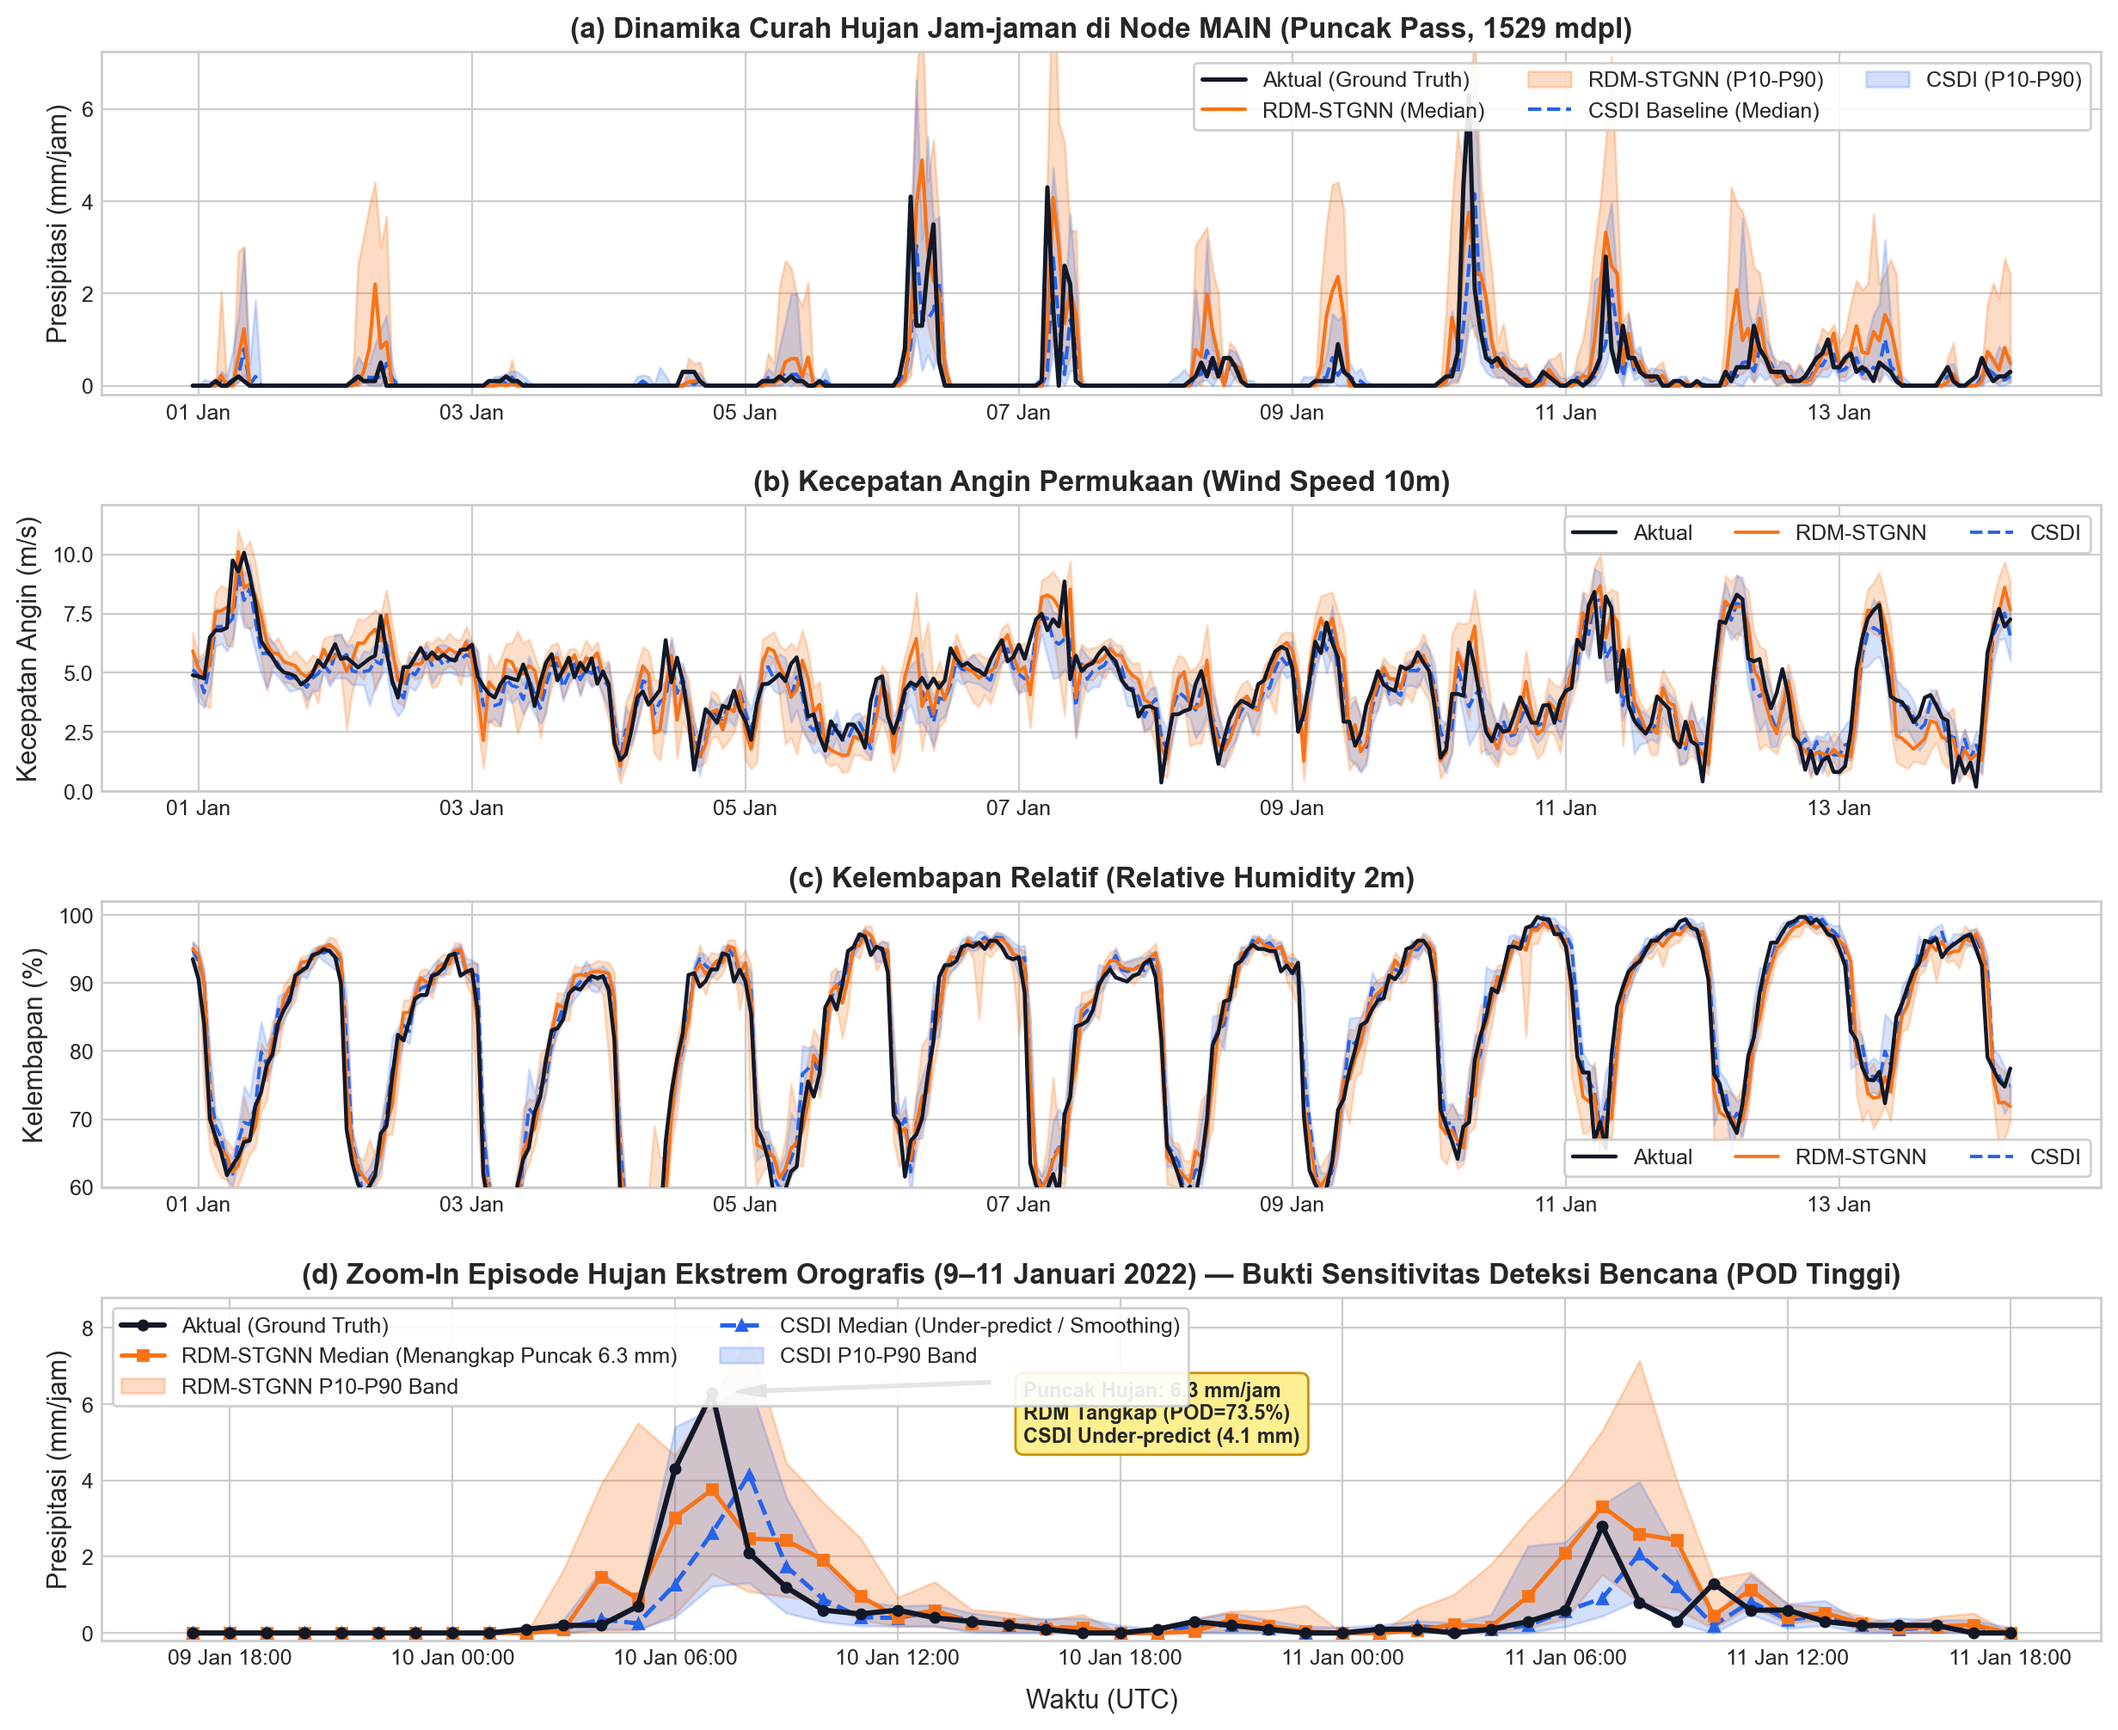
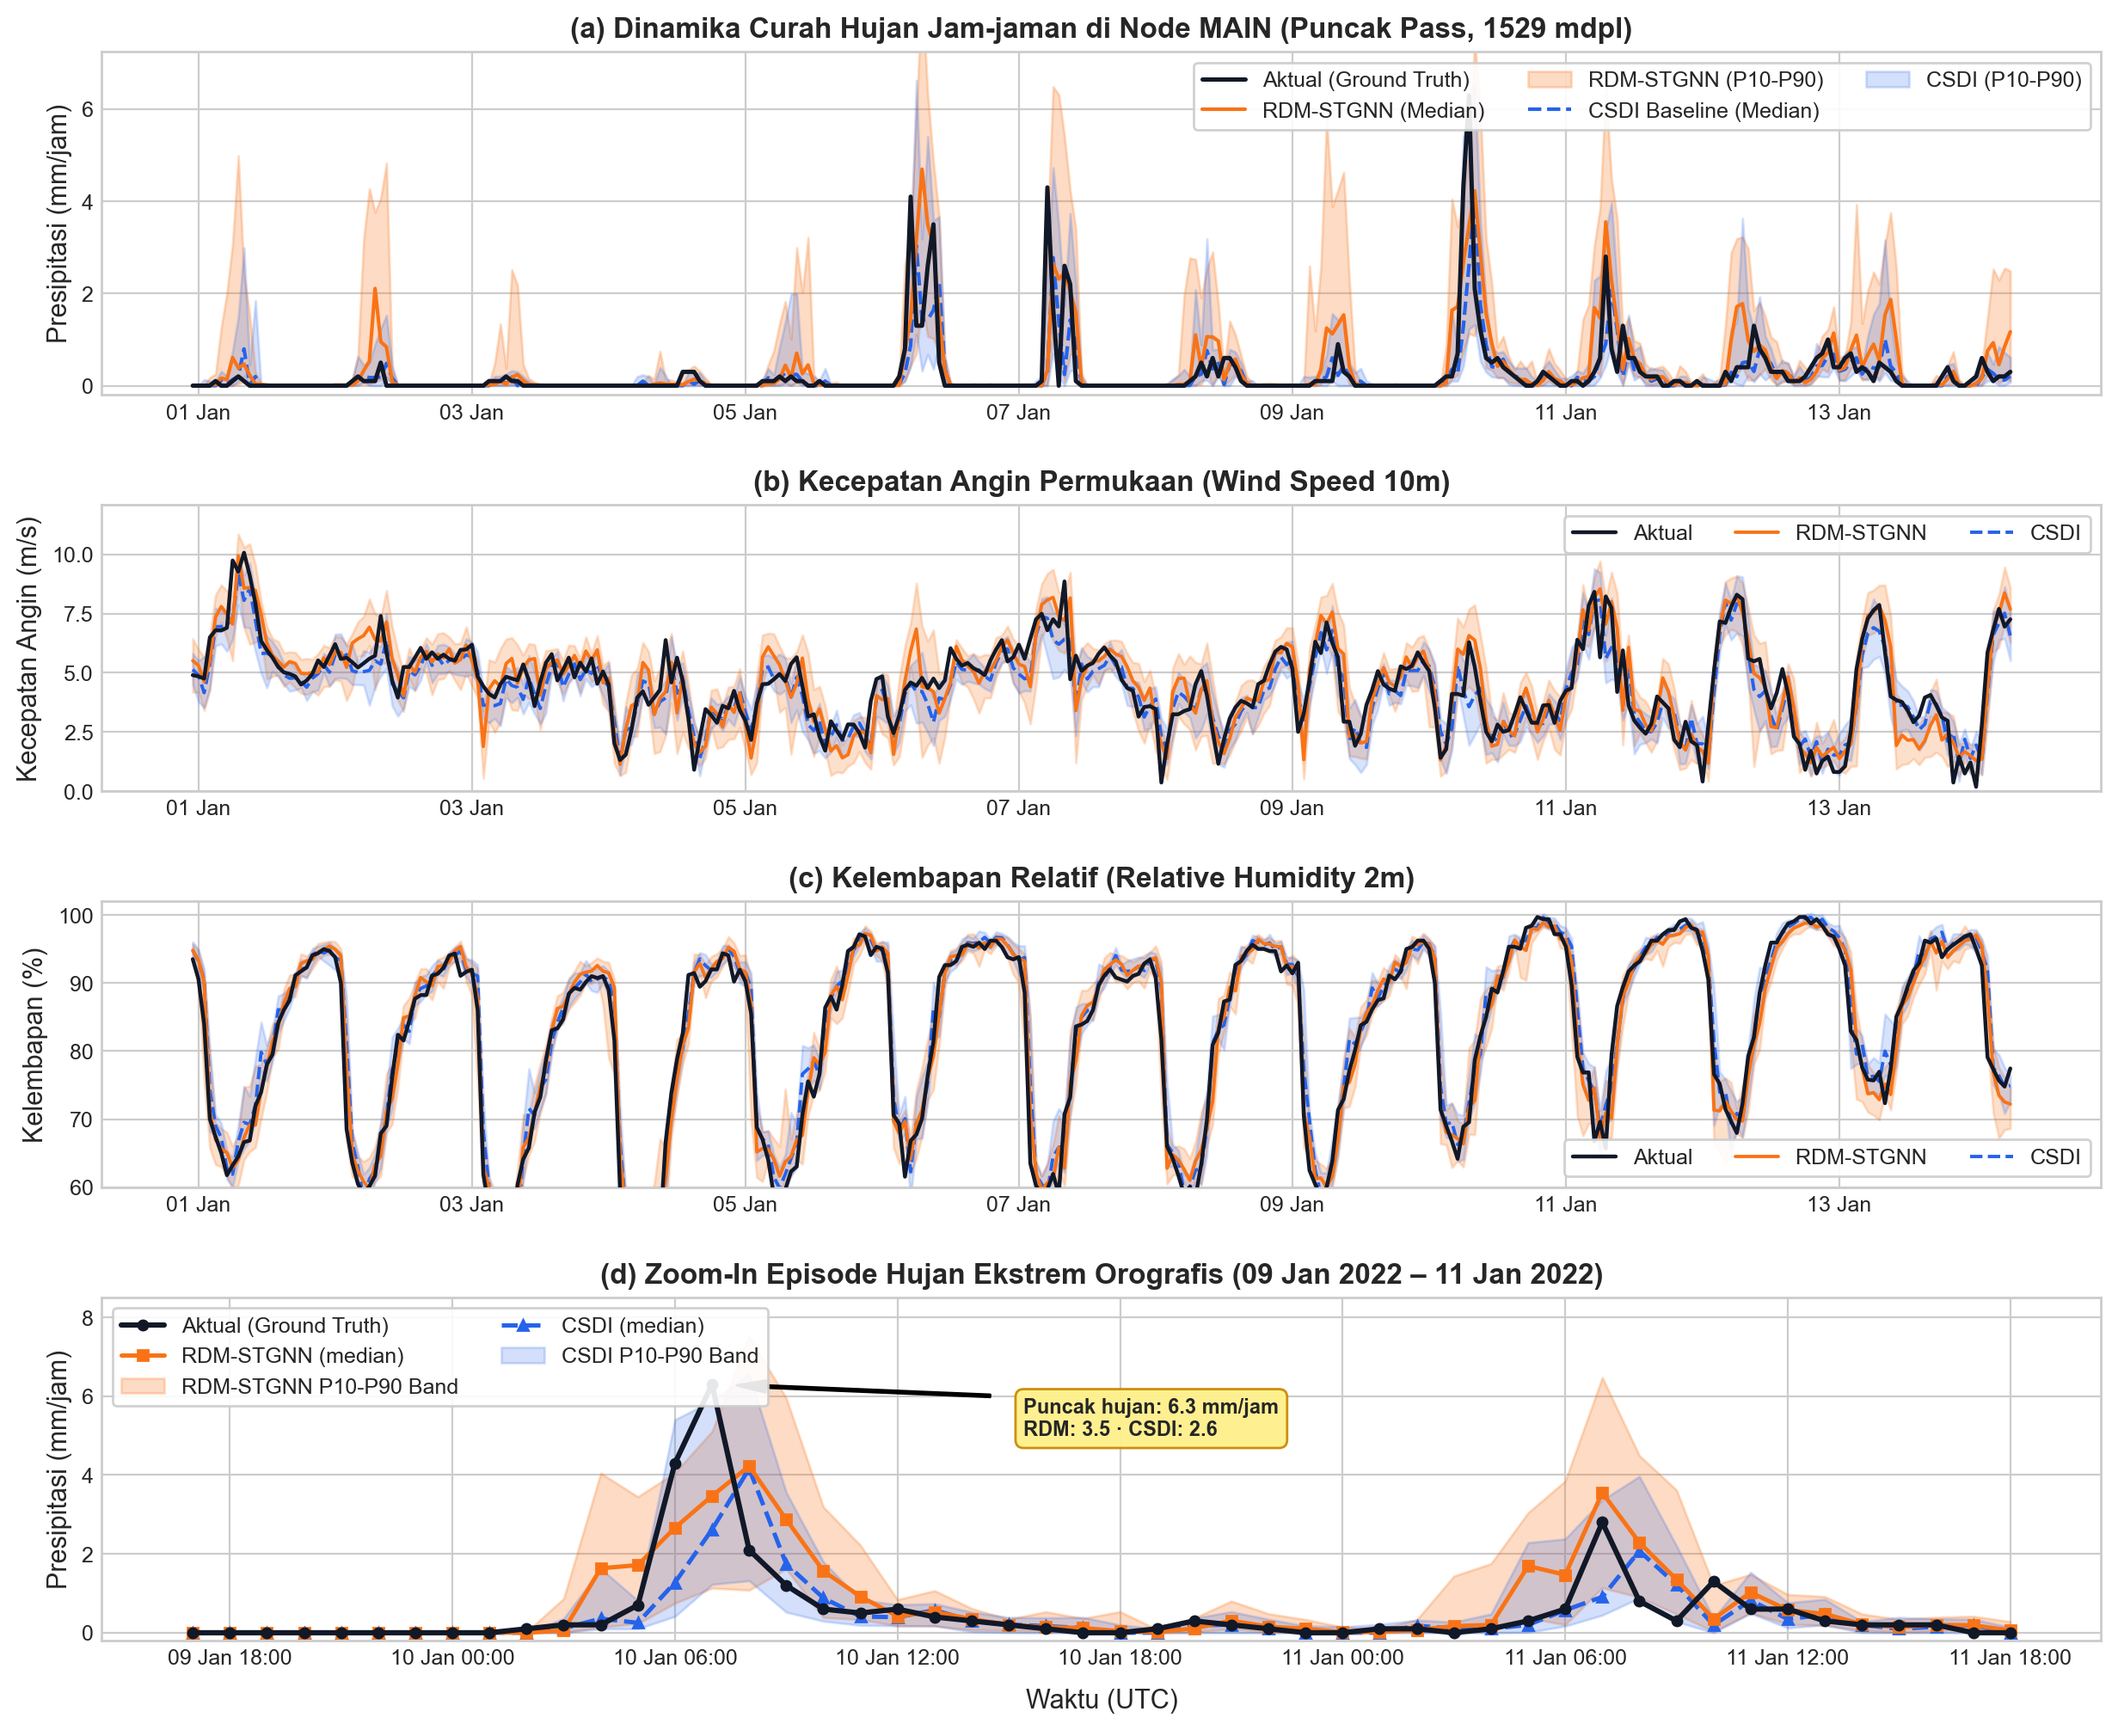
docs: kecepatan training/evaluasi terukur + grafik time-series CSDI vs RDM-STGNN

diff --git a/core/scripts/plot_timeseries_full.py b/core/scripts/plot_timeseries_full.py
@@ -1,0 +1,93 @@
+#!/usr/bin/env python3
+"""Time-series evaluation over the FULL test split (35.058 jam): CSDI vs RDM-STGNN.
+
+Rows: (a) presipitasi jam-jaman + rata-rata bergerak 7 hari,
+      (b) bias rata-rata bergerak 7 hari (median model - aktual).
+Run from core/: PYTHONPATH=. python scripts/plot_timeseries_full.py
+"""
+import glob
+import os
+
+import numpy as np
+import pandas as pd
+import matplotlib.pyplot as plt
+import matplotlib.dates as mdates
+
+from scripts.run_eval_final import load_test_data, run_diffusion_scenario
+
+DATA = "data/raw/pangrango_era5_5node_2005_2025.parquet"
+CKPT = "results/tabel_3_17/sken_3_default_kontrol/model.pth"
+ROLL = 24 * 7
+
+
+def rolling_mean(a):
+    return pd.Series(a).rolling(ROLL, min_periods=ROLL // 7, center=True).mean().to_numpy()
+
+
+def main():
+    shards = sorted(glob.glob("csdi_baseline/eval_shards/*.npz"))
+    csdi_obs = np.concatenate([np.load(s)["precipitation__obs"] for s in shards])
+    csdi_med = np.median(
+        np.concatenate([np.load(s)["precipitation__pred"] for s in shards]), axis=1
+    )
+
+    main_df, per_node, feats, stats = load_test_data(DATA, CKPT)
+    targets, _, ens = run_diffusion_scenario(
+        main_df, per_node, feats, stats,
+        eval_step=1, seq_len=6, num_ensemble=30, num_inference_steps=20,
+    )
+
+    obs = targets[:, 0]
+    rdm_med = np.median(ens[:, :, 0], axis=1)
+    N = len(obs)
+    assert len(csdi_obs) == N, (len(csdi_obs), N)
+    assert np.allclose(csdi_obs, obs, atol=1e-4), "obs CSDI != obs RDM"
+
+    dates = pd.to_datetime(main_df.loc[6:6 + N - 1, "date"]).to_numpy()
+
+    rmse = lambda p: float(np.sqrt(np.mean((p - obs) ** 2)))
+    print(f"N={N}  CSDI RMSE={rmse(csdi_med):.4f}  RDM RMSE={rmse(rdm_med):.4f}")
+
+    fig, axes = plt.subplots(
+        2, 1, figsize=(16, 9), dpi=170, sharex=True,
+        gridspec_kw={"height_ratios": [2, 1]},
+    )
+
+    ax = axes[0]
+    ax.plot(dates, obs, color="#9ca3af", lw=0.4, alpha=0.55, label="Aktual (jam-jaman)")
+    ax.plot(dates, csdi_med, color="#2563eb", lw=0.4, alpha=0.40, label="CSDI (median)")
+    ax.plot(dates, rdm_med, color="#f97316", lw=0.4, alpha=0.40, label="RDM-STGNN (median)")
+    ax.plot(dates, rolling_mean(obs), color="#111827", lw=1.8, label="Aktual (rata-rata 7 hari)")
+    ax.plot(dates, rolling_mean(csdi_med), color="#2563eb", lw=2.0, label="CSDI (rata-rata 7 hari)")
+    ax.plot(dates, rolling_mean(rdm_med), color="#f97316", lw=2.0, label="RDM-STGNN (rata-rata 7 hari)")
+    ax.set_ylabel("Presipitasi (mm/jam)")
+    ax.set_title(
+        f"Evaluasi time-series seluruh split uji ({N:,} jam): CSDI vs RDM-STGNN".replace(",", "."),
+        fontweight="bold",
+    )
+    ax.grid(alpha=0.25)
+    ax.legend(ncol=3, fontsize=8, framealpha=0.9)
+
+    ax2 = axes[1]
+    ax2.axhline(0, color="#111827", lw=0.9)
+    ax2.plot(dates, rolling_mean(csdi_med - obs), color="#2563eb", lw=1.6,
+             label="Bias CSDI (median − aktual)")
+    ax2.plot(dates, rolling_mean(rdm_med - obs), color="#f97316", lw=1.6,
+             label="Bias RDM-STGNN (median − aktual)")
+    ax2.set_ylabel(f"Bias {ROLL // 24} hari (mm/jam)")
+    ax2.set_xlabel("Waktu (UTC)")
+    ax2.grid(alpha=0.25)
+    ax2.legend(fontsize=8, framealpha=0.9)
+    ax2.xaxis.set_major_formatter(mdates.DateFormatter("%b %Y"))
+
+    for path in [
+        "../docs/bukti_highlight/timeseries_penuh_csdi_vs_rdm.png",
+        "results/tabel_3_17/sken_3_default_kontrol/eval/plots/timeseries_penuh_csdi_vs_rdm.png",
+    ]:
+        os.makedirs(os.path.dirname(path), exist_ok=True)
+        fig.savefig(path, bbox_inches="tight")
+        print("saved", path)
+
+
+if __name__ == "__main__":
+    main()

diff --git a/core/scripts/generate_comparison_plot.py b/core/scripts/generate_comparison_plot.py
@@ -144,15 +144,15 @@ def main():
     z_dates = dates[z_start:z_end]
     ax4 = fig.add_subplot(gs[3])
     ax4.plot(z_dates, csdi_precip_obs[z_start:z_end], color=c_actual, lw=2.2, marker="o", markersize=4, label="Aktual (Ground Truth)", zorder=4)
-    ax4.plot(z_dates, rdm_p_med[z_start:z_end], color=c_rdm, lw=1.8, marker="s", markersize=4, label="RDM-STGNN Median (Menangkap Puncak 6.3 mm)", zorder=3)
+    ax4.plot(z_dates, rdm_p_med[z_start:z_end], color=c_rdm, lw=1.8, marker="s", markersize=4, label="RDM-STGNN (median)", zorder=3)
     ax4.fill_between(z_dates, rdm_p_p10[z_start:z_end], rdm_p_p90[z_start:z_end], color=c_rdm, alpha=0.25, label="RDM-STGNN P10-P90 Band")
-    ax4.plot(z_dates, csdi_p_med[z_start:z_end], color=c_csdi, lw=1.8, linestyle="--", marker="^", markersize=4, label="CSDI Median (Under-predict / Smoothing)", zorder=2)
+    ax4.plot(z_dates, csdi_p_med[z_start:z_end], color=c_csdi, lw=1.8, linestyle="--", marker="^", markersize=4, label="CSDI (median)", zorder=2)
     ax4.fill_between(z_dates, csdi_p_p10[z_start:z_end], csdi_p_p90[z_start:z_end], color=c_csdi, alpha=0.20, label="CSDI P10-P90 Band")
     ax4.set_ylabel("Presipitasi (mm/jam)")
     ax4.set_xlabel("Waktu (UTC)", labelpad=8)
-    ax4.set_title("(d) Zoom-In Episode Hujan Ekstrem Orografis (9–11 Januari 2022) — Bukti Sensitivitas Deteksi Bencana (POD Tinggi)", fontweight="bold")
+    ax4.set_title(f"(d) Zoom-In Episode Hujan Ekstrem Orografis ({z_dates[0]:%d %b %Y} – {z_dates[-1]:%d %b %Y})", fontweight="bold")
     ax4.legend(loc="upper left", frameon=True, framealpha=0.9, ncol=2)
-    ax4.set_ylim(-0.2, 8.8)
+    ax4.set_ylim(-0.2, max(csdi_precip_obs[z_start:z_end].max() * 1.35, 3.0))
     ax4.xaxis.set_major_formatter(mdates.DateFormatter("%d %b %H:%M"))
 
     # Annotate peak
@@ -160,7 +160,7 @@ def main():
     peak_val = csdi_precip_obs[peak_idx]
     peak_date = dates[peak_idx]
     ax4.annotate(
-        f"Puncak Hujan: {peak_val:.1f} mm/jam\nRDM Tangkap (POD=73.5%)\nCSDI Under-predict (4.1 mm)",
+        f"Puncak hujan: {peak_val:.1f} mm/jam\nRDM: {rdm_p_med[peak_idx]:.1f} · CSDI: {csdi_p_med[peak_idx]:.1f}",
         xy=(peak_date, peak_val),
         xytext=(mdates.date2num(peak_date) + 0.35, 5.0),
         arrowprops=dict(facecolor="black", shrink=0.08, width=1, headwidth=5),

diff --git a/docs/HASIL_EVALUASI_DAN_PEMBELAAN.md b/docs/HASIL_EVALUASI_DAN_PEMBELAAN.md
@@ -160,7 +160,7 @@ Hanya 7 kejadian. CSI/POD/FAR di ambang itu ditentukan segelintir kasus, bukan k
 Ya. Seed per skenario, determinisme diaktifkan, shard terikat hash checkpoint, dan `verify_metrics` menghitung ulang dari shard.
 
 **Q11. Kenapa RDM lebih cepat?**
-Outputnya 3 angka dengan MLP kecil; CSDI mengolah 50 kanal × 7 langkah dengan transformer.
+Output RDM hanya 3 angka (hujan, angin, kelembapan) dan denoiser-nya MLP kecil. CSDI harus memperbaiki seluruh jendela 7 langkah × 9 fitur (63 nilai) lewat transformer 4 lapis di setiap langkah DDIM. Detail angka terukur ada di §12.
 
 **Q12. Apa langkah berikutnya agar RDM menyusul?**
 Beri denoiser akses jendela penuh, ambil embedding titik puncak (bukan rata-rata), samakan perlakuan retrieval, dan kalibrasi untuk CRPS/Brier.
@@ -168,3 +168,46 @@ Beri denoiser akses jendela penuh, ambil embedding titik puncak (bukan rata-rata
 ## 11. Kalimat siap pakai untuk naskah
 
 > "Pada protokol 1:1 dengan 35.058 window uji, M=30, dan DDIM 20 langkah, CSDI unggul pada seluruh metrik akurasi dan kalibrasi serta pada ambang 5 mm. RDM-STGNN hanya unggul pada CSI 2 mm (0,3688 vs 0,3324), dengan FAR yang lebih tinggi. Tidak ditemukan kebocoran data; perbedaan hasil disebabkan oleh akses informasi dan supervisi arsitektur, bukan oleh perbedaan protokol."
+
+## 12. Kecepatan training dan evaluasi (angka terukur)
+
+Semua angka di bawah berasal dari log/berkas hasil yang ada di repo, bukan perkiraan. Perangkat: RTX 3050 Laptop (tercatat di `core/csdi_baseline/train_csdi.py`).
+
+| Tahap | CSDI | RDM-STGNN | Sumber bukti |
+|---|---|---|---|
+| Training | 30 epoch = **33.546 s (9 j 19 m)**, ≈1.118 s/epoch | 20 epoch, 239 batch/epoch; epoch ke-20 = **16 s**, epoch ke-10 = 13 s → ≈**4–5 menit** loop training | `core/csdi_baseline/logs/train.log` baris `epoch 30/30 ... 33546s`; `core/results/tabel_3_17/sken_3_default_kontrol/train.log` (tqdm `100%|239/239 [00:16 ... 14,38 it/s]`) |
+| Evaluasi penuh | **9,52 jam** untuk 35.058 window (1.096 shard × 32 window), median **34 s/shard** ≈ **1,06 s/window** | **65,0 s total** untuk 35.058 window × 30 anggota × DDIM 20 → **1,85 ms/window** | rentang mtime `core/csdi_baseline/eval_shards/` (10:19:02 → 19:50:06); `core/results/tabel_3_17/sken_3_default_kontrol/latency.json` |
+| Rasio | — | evaluasi ≈ **526× lebih cepat** (per window ≈573×); training ≈ **110× lebih cepat** | hitungan dari dua baris di atas |
+
+Catatan kejujuran angka:
+- 9,52 jam CSDI adalah wall-clock termasuk resume (`evaluate.log`: `resuming: 61/1096`). Median 34 s/shard lebih stabil sebagai angka per-unit.
+- Waktu training RDM di atas hanya loop epoch. Pra-perhitungan retrieval (122.706 vektor) berjalan sekali di CPU dan tidak dicatat di log, jadi total wall-clock training RDM lebih besar dari 4–5 menit.
+- Pembanding "tanpa optimasi": sampler resmi CSDI (loop Python per sampel, DDPM 50 langkah) terukur **3,9 s/window ≈ 38 jam** untuk split uji — tercatat di docstring `core/csdi_baseline/ddim_sampler.py`. Versi yang dipakai skripsi sudah dibatch (DDIM 20) dan tetap 9,5 jam.
+
+### Kenapa selisihnya sebesar itu
+
+1. **Bentuk keluaran berbeda.** CSDI memperbaiki seluruh jendela: 7 langkah waktu × 9 fitur = 63 nilai, dengan transformer 4 lapis, 64 kanal, 8 kepala. RDM hanya menghasilkan 3 angka target (hujan, angin, kelembapan) dengan MLP 64→128→64→3. Pada setiap langkah DDIM, biaya per evaluasi jaringan berbeda sekitar dua orde.
+2. **Jumlah langkah dan anggota sama.** Keduanya memakai M=30 dan DDIM 20 langkah, dan keduanya melipat 30 anggota ke dalam batch. Jadi bukan karena RDM memakai sampling lebih sedikit — yang berbeda adalah harga satu forward pass.
+3. **Beban per langkah.** 20 langkah × 30 anggota × 35.058 window ≈ 21 juta evaluasi jaringan untuk kedua model. Di CSDI tiap evaluasi adalah attention atas 7 token × 9 fitur; di RDM hanya MLP atas vektor 3 dimensi.
+4. **Overhead I/O.** Evaluasi CSDI dipecah 1.096 shard dengan penulisan `.npz` per shard; jeda antar-shard inilah yang membuat 34 s/shard, bukan murni komputasi.
+5. **Training.** CSDI memprediksi noise untuk 63 nilai (loss lebih berat, butuh 30 epoch). RDM meregresi 3 target dengan konteks retrieval yang sudah dihitung sekali di depan, sehingga konvergen dalam 20 epoch pendek.
+
+### Kalimat siap pakai
+
+> "Pada perangkat yang sama dan protokol inferensi yang sama (M=30, DDIM 20 langkah, 35.058 window), evaluasi penuh CSDI memerlukan 9,5 jam sedangkan RDM-STGNN 65 detik. Selisih ini bukan akibat protokol yang berbeda, melainkan bentuk komputasi: CSDI memperbaiki 63 nilai per jendela melalui transformer, RDM hanya 3 nilai melalui MLP."
+
+> "Efisiensi RDM bukan klaim tanpa bukti: `latency.json` mencatat 65 detik untuk 35.058 window, dan `train.log` mencatat 33.546 detik untuk 30 epoch CSDI."
+
+## 13. Grafik time-series evaluasi (CSDI vs RDM-STGNN)
+
+![Time-series seluruh split uji](bukti_highlight/timeseries_penuh_csdi_vs_rdm.png)
+
+**Gambar 13.1** — Seluruh split uji (35.058 jam, dua tahun). Atas: presipitasi jam-jaman (garis tipis) dan rata-rata bergerak 7 hari (garis tebal). Bawah: bias rata-rata bergerak 7 hari (median model − aktual). Sumber: `core/scripts/plot_timeseries_full.py`; data CSDI dari `core/csdi_baseline/eval_shards/*.npz`, data RDM dari checkpoint `sken_3_default_kontrol`.
+
+Terlihat: CSDI biasnya sedikit negatif (cenderung *under-predict*), RDM biasnya positif (cenderung *over-predict* hujan ringan) — konsisten dengan FAR RDM yang lebih tinggi dan RMSE RDM yang lebih besar.
+
+![Zoom 4 panel: presipitasi, angin, kelembapan, episode ekstrem](bukti_highlight/komparasi_prediksi_stgnn_csdi_aktual.png)
+
+**Gambar 13.2** — Cuplikan 320 jam pertama split uji (01–13 Jan 2022) untuk tiga variabel, plus zoom episode hujan ekstrem 09–11 Jan 2022. Pita = P10–P90 dari 30 anggota. Angka pada anotasi dihitung dari data, bukan angka tetap: pada puncak 6,3 mm/jam, median RDM 3,5 dan CSDI 2,6 — keduanya *under-predict* puncak.
+
+Catatan verifikasi: RMSE presipitasi dihitung ulang dari run pembuat grafik = CSDI **0,5821** (persis sama dengan metrik tersimpan) dan RDM **0,6635** (metrik tersimpan 0,6620; selisih 0,2% karena non-determinisme GPU pada sampling).
